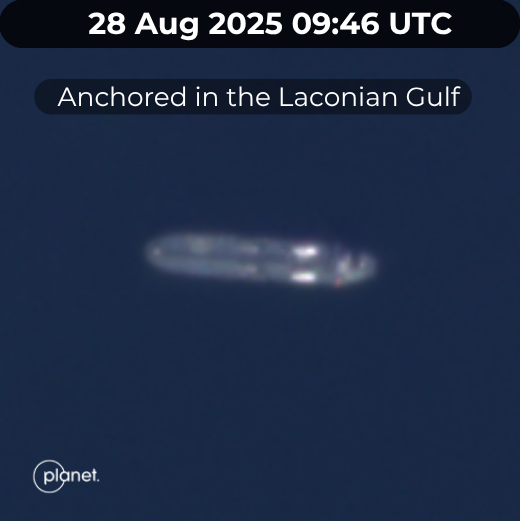
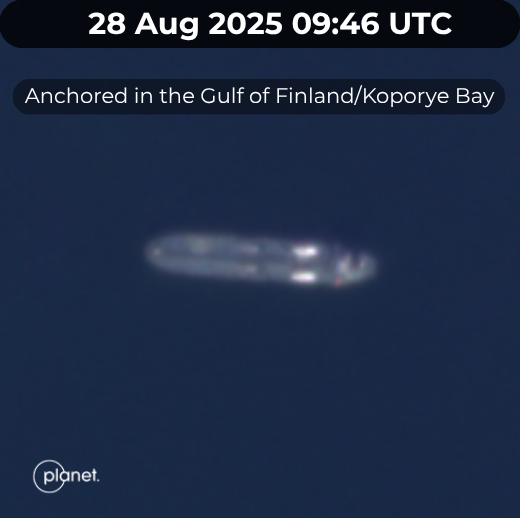
commit 7

diff --git a/index.html b/index.html
@@ -81,7 +81,7 @@
                     <h1>SHADOW VOYAGE</h1>
                     <h2>A Sanctioned Tanker's Journey to Cuba</h2>
                     <div class="divider"></div>
-                    <p>Following AKADEMIK GUBKIN's 4500-nautical-mile voyage carrying Russian crude to the Carribeans. A 34-day long trip from loading in the Baltic to the Ship-to-Ship (STS) transfer in Cuban waters.</p>
+                    <p>Following AKADEMIK GUBKIN's 4500-nautical-mile voyage carrying Russian crude oil to the Carribean. A 34-day long trip from loading in the Baltic to the Ship-to-Ship (STS) transfer in Cuban waters.</p>
                     <div class="scroll-indicator">
                         <span>SCROLL TO EXPLORE</span>
                         <svg width="20" height="20" viewBox="0 0 20 20">
@@ -99,7 +99,7 @@
                         <span class="location">BALTIC ANCHORAGE</span>
                     </div>
                     <h3>146 Days at Anchor</h3>
-                    <p>AKADEMIK GUBKIN sat idle at different anchorage locations in the Laconian Gulf ,from <strong>April 5 through August 29</strong>. The prolonged wait followed its second Cuba delivery of 2025, a pattern suggesting difficulties securing buyers or coordinating payment under sanctions. The vessel's inactivity concluded on <strong>August 31</strong> when it sailed for Ust-Luga, a primary Russian oil export terminal in the Baltic Sea.</p>
+                    <p>AKADEMIK GUBKIN sat idle at different anchorage locations in the Gulf of Finland/Koporye Bay, from <strong>April 5 through August 29</strong>. The prolonged wait followed its second Cuba delivery of 2025, a holding pattern likely awaiting further orders. The vessel's inactivity concluded on <strong>August 31</strong> when it sailed for Ust-Luga, a primary Russian oil export terminal in the Baltic Sea.</p>
                     <div class="data-point" style="flex-direction: column; align-items: center; gap: 8px;">
                         <span class="label">ANCHORAGE DURATION</span>
                         <span class="value">146 days</span>
@@ -110,13 +110,13 @@
                             <span class="event">Anchorage begins</span>
                         </div>
                         <div class="timeline-item">
-                            <span class="time">Aug 29</span>
+                            <span class="time">Aug 31</span>
                             <span class="event">Moves to terminal</span>
                         </div>
                     </div>
                     <div class="sanctions-notice">
                         <span class="sanction-icon">⚠</span>
-                        <span>Sanctioned: US, UK, EU, Switzerland</span>
+                        <span>Sanctioned: US, UK, EU, Switzerland & Ukraine</span>
                     </div>
                 </div>
             </div>
@@ -128,8 +128,8 @@
                         <span class="chapter">CHAPTER 2</span>
                         <span class="location">UST-LUGA TERMINAL, RUSSIA</span>
                     </div>
-                    <h3>Loading Russian Crude</h3>
-                    <p>On <strong>August 31</strong>, the vessel moved to Russia's primary Baltic export terminal to load a full cargo. Crew-inputted draft data measurements and AIS data confirm loading operations, despite cloud cover preventing optical satellite confirmation.</p>
+                    <h3>Loading Russian Crude Oil</h3>
+                    <p>On <strong>August 31</strong>, the vessel moved to Russia's primary Baltic export terminal to load a full cargo. Crew-inputted draft data measurements and AIS data confirm loading operations.</p>
                     <div class="vessel-status">
                         <div class="status-row">
                             <span>VESSEL TYPE</span>
@@ -268,7 +268,7 @@
                         <span class="location">CUBAN WATERS</span>
                     </div>
                     <h3>Dark Operation</h3>
-                    <p>On <strong>October 4</strong>, AKADEMIK GUBKIN conducted an STS transfer with <strong>EQUALITY</strong>,a vessel running dark. EQUALITY stopped broadcasting AIS on <strong>Oct 3 at 20:28 UTC</strong> and resumed transmission on <strong>Oct 5 at 14:25 UTC</strong>, deliberately obscuring the operation.</p>
+                    <p>On <strong>October 4</strong>, AKADEMIK GUBKIN conducted an STS transfer with <strong>EQUALITY</strong>, a vessel running dark. EQUALITY's AIS transmission was intermittent from <strong>Oct 3 at 20:28 UTC</strong> to <strong>Oct 5 at 14:25 UTC</strong>, likely attempting to obscure the operation.</p>
                     <div class="vessel-status">
                         <div class="status-row">
                             <span>VESSEL</span>
@@ -305,7 +305,7 @@
                     </ul>
                     <div class="data-point" style="flex-direction: column; align-items: center; gap: 8px;">
                         <span class="label">REPORTING PERIOD</span>
-                        <span class="value">Aug 28 - Oct 5</span>
+                        <span class="value">Apr 5 - Oct 5</span>
                     </div>
                     <div class="cta">
                         <p>Monitor sanctioned vessel movements with</p>

diff --git a/map.js b/map.js
@@ -65,7 +65,8 @@ const CHAPTERS = {
         showLegend: false,
         showVessel2: false,
         showVessel3: false,
-        showUI: false
+        showUI: false,
+        voyagePeriod: 'APR 5 - AUG 31'  // 🔧 EDIT YOUR DATE HERE
     },
     1: {
         name: 'Ust-Luga Loading',
@@ -82,7 +83,8 @@ const CHAPTERS = {
         showLegend: true,
         showVessel2: false,
         showVessel3: false,
-        showUI: true
+        showUI: true,
+        voyagePeriod: 'APR 5 - AUG 31'  // 🔧 EDIT YOUR DATE HERE
     },
     2: {
         name: 'Baltic Exit',
@@ -99,7 +101,8 @@ const CHAPTERS = {
         showLegend: true,
         showVessel2: false,
         showVessel3: false,
-        showUI: true
+        showUI: true,
+        voyagePeriod: 'AUG 31'  // 🔧 EDIT YOUR DATE HERE
     },
     3: {
         name: 'North Sea Transit',
@@ -116,7 +119,8 @@ const CHAPTERS = {
         showLegend: true,
         showVessel2: false,
         showVessel3: false,
-        showUI: true
+        showUI: true,
+        voyagePeriod: 'SEP 2 - SEP 6'  // 🔧 EDIT YOUR DATE HERE
     },
     4: {
         name: 'Norwegian Sea to Atlantic',
@@ -133,7 +137,8 @@ const CHAPTERS = {
         showLegend: true,
         showVessel2: false,
         showVessel3: false,
-        showUI: true
+        showUI: true,
+        voyagePeriod: 'SEP 7 - SEP 8'  // 🔧 EDIT YOUR DATE HERE
     },
     5: {
         name: 'Mid-Atlantic to Haiti',
@@ -150,7 +155,8 @@ const CHAPTERS = {
         showLegend: true,
         showVessel2: false,
         showVessel3: false,
-        showUI: true
+        showUI: true,
+        voyagePeriod: 'SEP 9 - SEP 25'  // 🔧 EDIT YOUR DATE HERE
     },
     6: {
         name: 'Haiti Arrival - STS Transfer',
@@ -167,7 +173,8 @@ const CHAPTERS = {
         showLegend: true,
         showVessel2: true,
         showVessel3: false,
-        showUI: true
+        showUI: true,
+        voyagePeriod: 'SEP 25 - OCT 2'  // 🔧 EDIT YOUR DATE HERE
     },
     7: {
         name: 'Dark STS - EQUALITY',
@@ -184,7 +191,8 @@ const CHAPTERS = {
         showLegend: true,
         showVessel2: false,
         showVessel3: true,
-        showUI: true
+        showUI: true,
+        voyagePeriod: 'OCT 3 - OCT 5'  // 🔧 EDIT YOUR DATE HERE
     },
     8: {
         name: 'Key Findings',
@@ -201,7 +209,8 @@ const CHAPTERS = {
         showLegend: false,
         showVessel2: false,
         showVessel3: false,
-        showUI: false
+        showUI: false,
+        voyagePeriod: 'AUG 28 - OCT 5'  // 🔧 EDIT YOUR DATE HERE
     }
 };
 
@@ -1252,10 +1261,12 @@ function updateVesselPanel(chapterNum) {
             if (elements.imo) elements.imo.textContent = '9842190';
             
             if (elements.label2) elements.label2.textContent = 'VOYAGE PERIOD';
-            if (elements.value2) elements.value2.textContent = 'AUG 28 - OCT 5';
+            // 🔧 UPDATED: Now uses chapter-specific voyage period from CHAPTERS config
+            const chapter = CHAPTERS[chapterNum];
+            if (elements.value2) elements.value2.textContent = chapter && chapter.voyagePeriod ? chapter.voyagePeriod : 'AUG 28 - OCT 5';
             
             if (elements.label3) elements.label3.textContent = 'CARGO';
-            if (elements.value3) elements.value3.textContent = 'RUSSIAN CRUDE';
+            if (elements.value3) elements.value3.textContent = 'RUSSIAN CRUDE OIL';
         }
         
         panel.style.transition = 'opacity 0.4s ease';

diff --git a/animatechapter3.js b/animatechapter3.js
@@ -19,7 +19,7 @@ function animateChapter3(map, geojsonData, vesselMarker, config = {}) {
             coords: [13.8009, 54.9989],
             label: 'DETECTION 1',
             image: 'image1A.png',
-            popupOffset: [140, 100],
+            popupOffset: [150, 170],
             delay: 500
         },
         {
